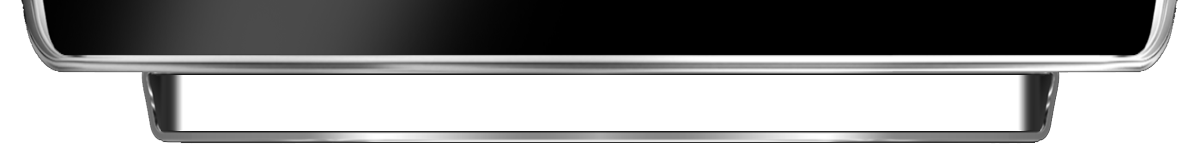
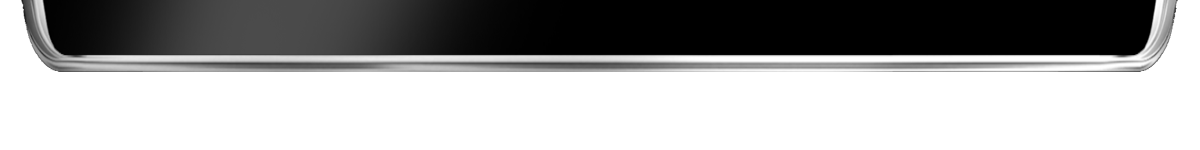
footer work

Changed region(s): [[0.0617, 0.48, 0.925, 0.96]]

diff --git a/vpin-studio-table-manager/src/main/java/de/mephisto/vpin/tablemanager/MenuController.java b/vpin-studio-table-manager/src/main/java/de/mephisto/vpin/tablemanager/MenuController.java
@@ -64,6 +64,15 @@ public class MenuController implements Initializable {
   @FXML
   private Label redLabel;
 
+  @FXML
+  private Label nameLabel;
+
+  @FXML
+  private Node progressStack;
+
+  @FXML
+  private Node footer;
+
   private boolean installToggle = true;
   private int selectionIndex = 0;
   private List<VpaDescriptorRepresentation> vpaDescriptors;
@@ -101,6 +110,7 @@ public class MenuController implements Initializable {
     TransitionUtil.createOutFader(greenPanel).play();
     TransitionUtil.createInFader(gameRow).play();
     TransitionUtil.createInFader(loadMask).play();
+    TransitionUtil.createTranslateByYTransition(footer, FOOTER_ANIMATION_DURATION, FOOTER_HEIGHT).play();
 
     new Thread(() -> {
       vpaDescriptors = Menu.client.getVpaDescriptors();
@@ -123,6 +133,7 @@ public class MenuController implements Initializable {
     TransitionUtil.createOutFader(greenPanel).play();
     TransitionUtil.createInFader(gameRow).play();
     TransitionUtil.createInFader(loadMask).play();
+    TransitionUtil.createTranslateByYTransition(footer, FOOTER_ANIMATION_DURATION, FOOTER_HEIGHT).play();
 
     setLoadLabel("Loading...");
 
@@ -161,7 +172,14 @@ public class MenuController implements Initializable {
     TransitionUtil.createInFader(bluePanel).play();
   }
 
+  public void resetFooter() {
+    if (footer.getTranslateY() != 0) {
+      TransitionUtil.createTranslateByYTransition(footer, FOOTER_ANIMATION_DURATION, -FOOTER_HEIGHT).play();
+    }
+  }
+
   public void enterMainMenu() {
+    resetFooter();
     if (this.installToggle) {
       enterMainWithInstall();
     }
@@ -233,7 +251,7 @@ public class MenuController implements Initializable {
   }
 
   private void scroll(boolean left) {
-    if(gameRow.getChildren().isEmpty()) {
+    if (gameRow.getChildren().isEmpty()) {
       return;
     }
 
@@ -267,13 +285,25 @@ public class MenuController implements Initializable {
 
     ParallelTransition parallelTransition = new ParallelTransition(t1, t2, t3, t4, t5, t6, t7);
     parallelTransition.play();
+
+    updateLabel(updatedNode);
+  }
+
+  private void updateLabel(Node node) {
+    Object userData = node.getUserData();
+    if (userData instanceof GameRepresentation) {
+      nameLabel.setText(((GameRepresentation) userData).getGameDisplayName());
+    }
+    else {
+      nameLabel.setText(((VpaDescriptorRepresentation) userData).getManifest().getGameDisplayName());
+    }
   }
 
   /**
    * Centers the row start back to the center.
    */
   private void initGameBarSelection() {
-    if(gameRow.getChildren().isEmpty()) {
+    if (gameRow.getChildren().isEmpty()) {
       return;
     }
 
@@ -290,6 +320,8 @@ public class MenuController implements Initializable {
     TransitionUtil.createTranslateByXTransition(child, SELECTION_SCALE_DURATION, -UIDefaults.SCROLL_OFFSET).play();
     TransitionUtil.createScaleTransition(child, UIDefaults.SELECTION_SCALE, SELECTION_SCALE_DURATION).play();
     TransitionUtil.createTranslateByYTransition(node, SELECTION_SCALE_DURATION, -UIDefaults.SELECTION_HEIGHT_OFFSET).play();
+
+    updateLabel(child);
   }
 
   public void resetGameRow() {
@@ -303,7 +335,7 @@ public class MenuController implements Initializable {
       gameRow.getChildren().add(createItemFor(vpaDescriptor));
     }
 
-    if(!vpaDescriptors.isEmpty()) {
+    if (!vpaDescriptors.isEmpty()) {
       while (gameRow.getChildren().size() * UIDefaults.THUMBNAIL_SIZE < UIDefaults.SCREEN_WIDTH * 2) {
         Label label = new Label();
         label.setMinWidth(THUMBNAIL_SIZE);
@@ -320,7 +352,7 @@ public class MenuController implements Initializable {
       gameRow.getChildren().add(createItemFor(game));
     }
 
-    if(!games.isEmpty()) {
+    if (!games.isEmpty()) {
       while (gameRow.getChildren().size() * UIDefaults.THUMBNAIL_SIZE < UIDefaults.SCREEN_WIDTH * 2) {
         Label label = new Label();
         label.setMinWidth(THUMBNAIL_SIZE);
@@ -396,5 +428,9 @@ public class MenuController implements Initializable {
   public VpaDescriptorRepresentation getVpaSelection() {
     Node node = gameRow.getChildren().get(selectionIndex);
     return (VpaDescriptorRepresentation) node.getUserData();
+  }
+
+  public void showProgress() {
+    TransitionUtil.createTranslateByYTransition(progressStack, FOOTER_ANIMATION_DURATION, 70).play();
   }
 }

diff --git a/vpin-studio-table-manager/src/main/java/de/mephisto/vpin/tablemanager/Menu.java b/vpin-studio-table-manager/src/main/java/de/mephisto/vpin/tablemanager/Menu.java
@@ -9,18 +9,15 @@ import javafx.geometry.Rectangle2D;
 import javafx.scene.Parent;
 import javafx.scene.Scene;
 import javafx.scene.image.Image;
-import javafx.scene.input.KeyCode;
 import javafx.scene.paint.Color;
 import javafx.stage.Screen;
 import javafx.stage.Stage;
 import javafx.stage.StageStyle;
 import org.jnativehook.GlobalScreen;
-import org.jnativehook.NativeHookException;
 import org.slf4j.Logger;
 import org.slf4j.LoggerFactory;
 
 import java.io.File;
-import java.io.IOException;
 import java.util.logging.Level;
 
 public class Menu extends Application {
@@ -52,7 +49,7 @@ public class Menu extends Application {
 
       Scene scene = null;
 
-      if(PRODUCTION_USE) {
+      if (PRODUCTION_USE) {
         root.setRotate(-90);
         root.setTranslateY(0);
         root.setTranslateX(0);
@@ -84,11 +81,12 @@ public class Menu extends Application {
       logger.setUseParentHandlers(false);
       GlobalScreen.addNativeKeyListener(StateMananger.getInstance());
 
-      Thread shutdownHook = new Thread(() -> {
-        Menu.client.restartPopper();
-      });
-      Runtime.getRuntime().addShutdownHook(shutdownHook);
-
+      if (PRODUCTION_USE) {
+        Thread shutdownHook = new Thread(() -> {
+          Menu.client.restartPopper();
+        });
+        Runtime.getRuntime().addShutdownHook(shutdownHook);
+      }
       stage.show();
     } catch (Exception e) {
       LOG.error("Failed to load launcher: " + e.getMessage(), e);

diff --git a/vpin-studio-table-manager/src/main/java/de/mephisto/vpin/tablemanager/UIDefaults.java b/vpin-studio-table-manager/src/main/java/de/mephisto/vpin/tablemanager/UIDefaults.java
@@ -4,11 +4,14 @@ public interface UIDefaults {
   int SCREEN_WIDTH = 2200;
   double SELECTION_SCALE = 0.50;
   double SELECTION_SCALE_DEFAULT = -SELECTION_SCALE;
-  int SELECTION_HEIGHT_OFFSET = 20;
+  int SELECTION_HEIGHT_OFFSET = 28;
   int SELECTION_SCALE_DURATION = 60;
 
   int THUMBNAIL_SIZE = 260;
   int SCROLL_OFFSET = 130;
+
+  int FOOTER_ANIMATION_DURATION = 600;
+  int FOOTER_HEIGHT = 310;
 
   int MAX_ROW_ITEMS = 9;
 }

diff --git a/vpin-studio-table-manager/src/main/java/de/mephisto/vpin/tablemanager/states/ArchivingMenuState.java b/vpin-studio-table-manager/src/main/java/de/mephisto/vpin/tablemanager/states/ArchivingMenuState.java
@@ -21,7 +21,7 @@ public class ArchivingMenuState extends MenuState {
     this.menuController.enterArchiving();
 
     StateMananger.getInstance().setInputBlocked(true);
-    executeArchiving();
+//    executeArchiving();
   }
 
   @Override

diff --git a/vpin-studio-table-manager/src/main/java/de/mephisto/vpin/tablemanager/states/ArchiveConfirmationMenuState.java b/vpin-studio-table-manager/src/main/java/de/mephisto/vpin/tablemanager/states/ArchiveConfirmationMenuState.java
@@ -24,6 +24,7 @@ public class ArchiveConfirmationMenuState extends MenuState {
 
   @Override
   MenuState enter() {
+    menuController.showProgress();
     return new ArchivingMenuState(this, menuController);
   }
 
